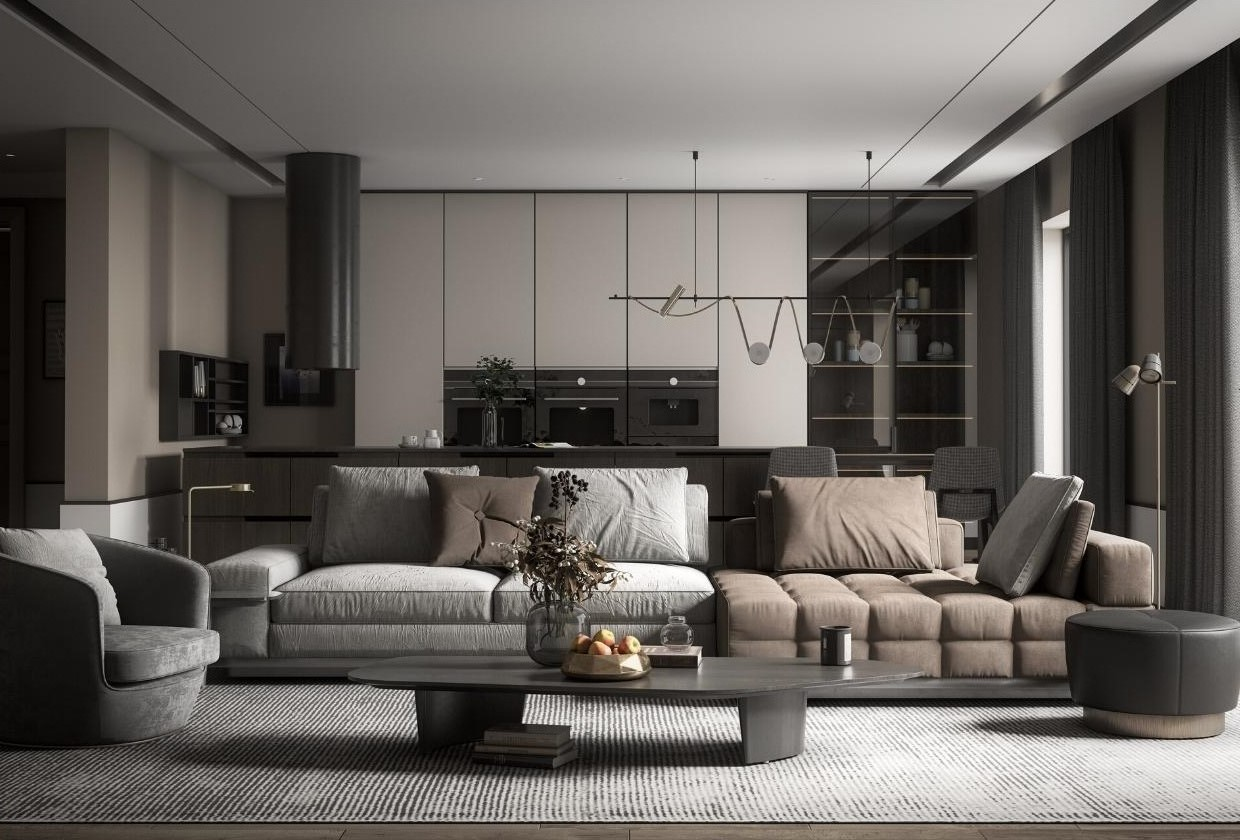
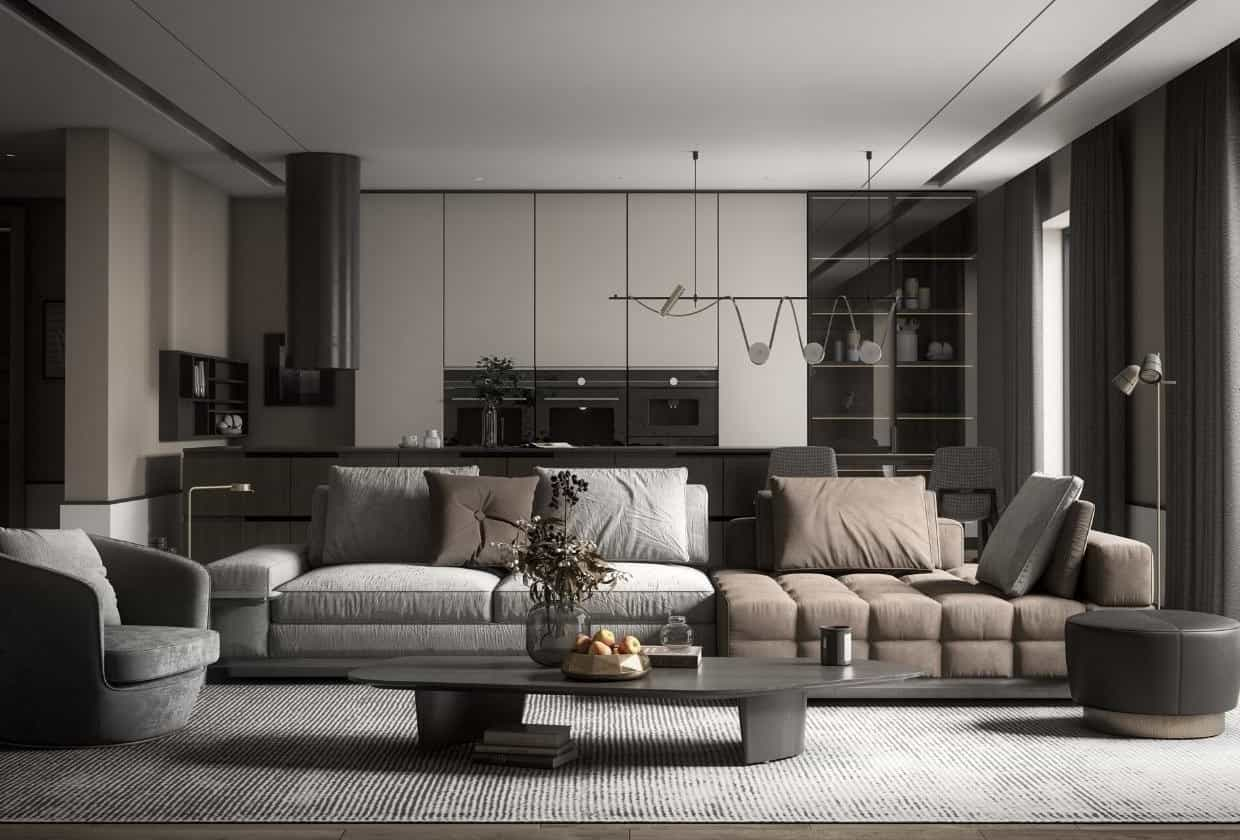
Compressed images for better performance.

Changed region(s): [[0.3984, 0.65, 0.4903, 0.7119]]

diff --git a/index.html b/index.html
@@ -70,7 +70,7 @@
         <!-- Work Images -->
         <div class="section-four-images">
             <div class="section-four-image">
-                <img alt="modern dining room" class="dining-room-image" src="assets/images/dinningroom.jpg">
+                <img alt="modern dining room" class="dining-room-image" src="assets/images/diningroom.jpg">
                 <p class="image-description">Dining in the hills of Calabasas<br> Year: 2022<br> Budget: $350,000</p>
             </div>
             <div class="section-four-image">

diff --git a/assets/css/style.css b/assets/css/style.css
@@ -150,6 +150,7 @@ body, h1, h2, h3, p {
 	text-align: center;
 	font-weight: bolder;
 }
+
 /* Section Four */
 
 .section-four {
@@ -169,11 +170,14 @@ body, h1, h2, h3, p {
 .section-four-image img {
 	width: 100%;
 	height: auto;
+	max-height: 30em;
+	object-fit: cover;
 }
 .image-description {
 	font-weight: bold;
 	margin-top: 10px;
 }
+
 /* Section Five */
 
 .section-five {
